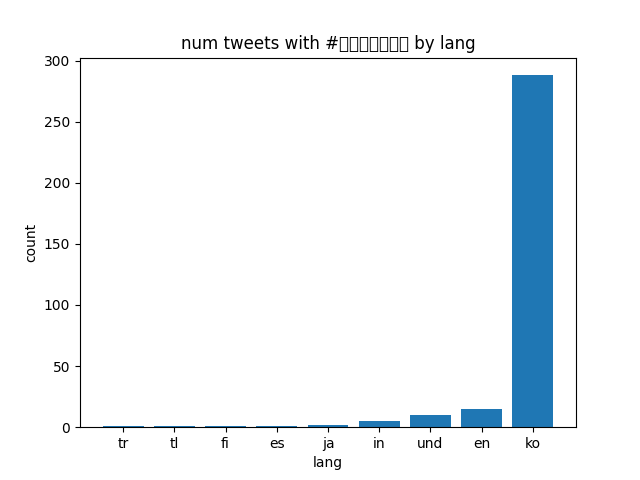
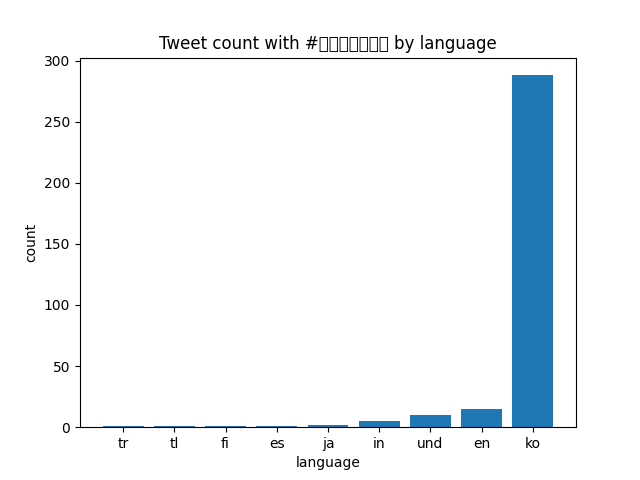
change lang to language

Changed region(s): [[0.25, 0.0625, 0.7812, 0.125], [0.4688, 0.9375, 0.5625, 1.0]]

diff --git a/src/visualize.py b/src/visualize.py
@@ -36,7 +36,11 @@ df = pd.DataFrame({'labels': [item[0] for item in items[:10]], 'values': [item[1
 df_sorted = df.sort_values('values')
 
 plt.bar('labels', 'values', data=df_sorted)
-plt.xlabel(args.input_path[8:])
+if args.input_path[8:] == 'lang':
+    plt.xlabel('language')
+    plt.title(f'Tweet count with {args.key} by language')
+else:
+    plt.xlabel(args.input_path[8:])
+    plt.title(f'Tweet count with {args.key} by {args.input_path[8:]}')
 plt.ylabel('count')
-plt.title(f'num tweets with {args.key} by {args.input_path[8:]}')
 plt.savefig(f'{args.key}_{args.input_path[8:]}.png')
